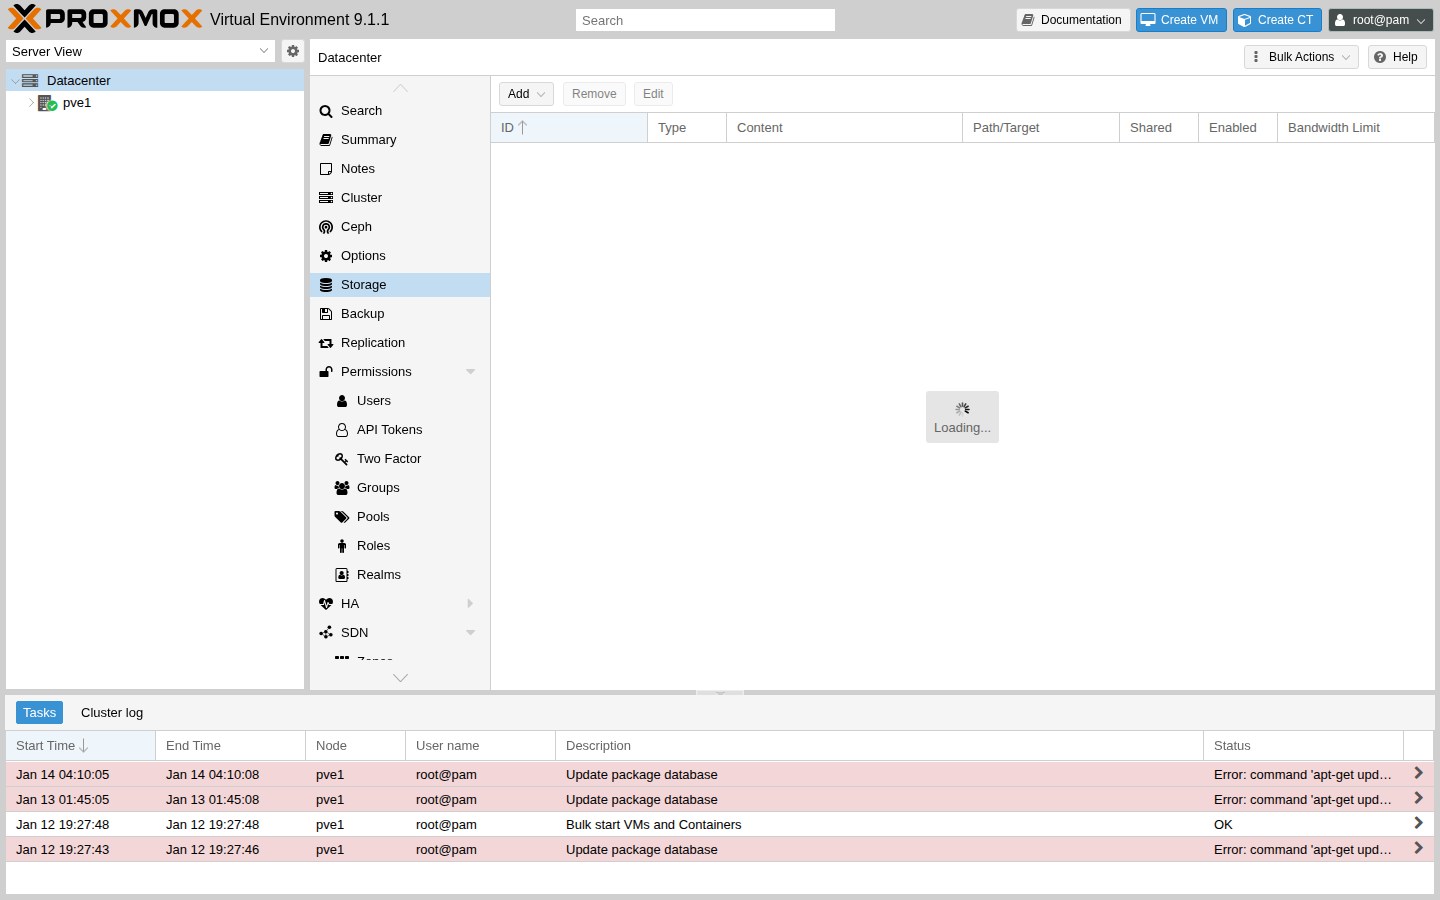
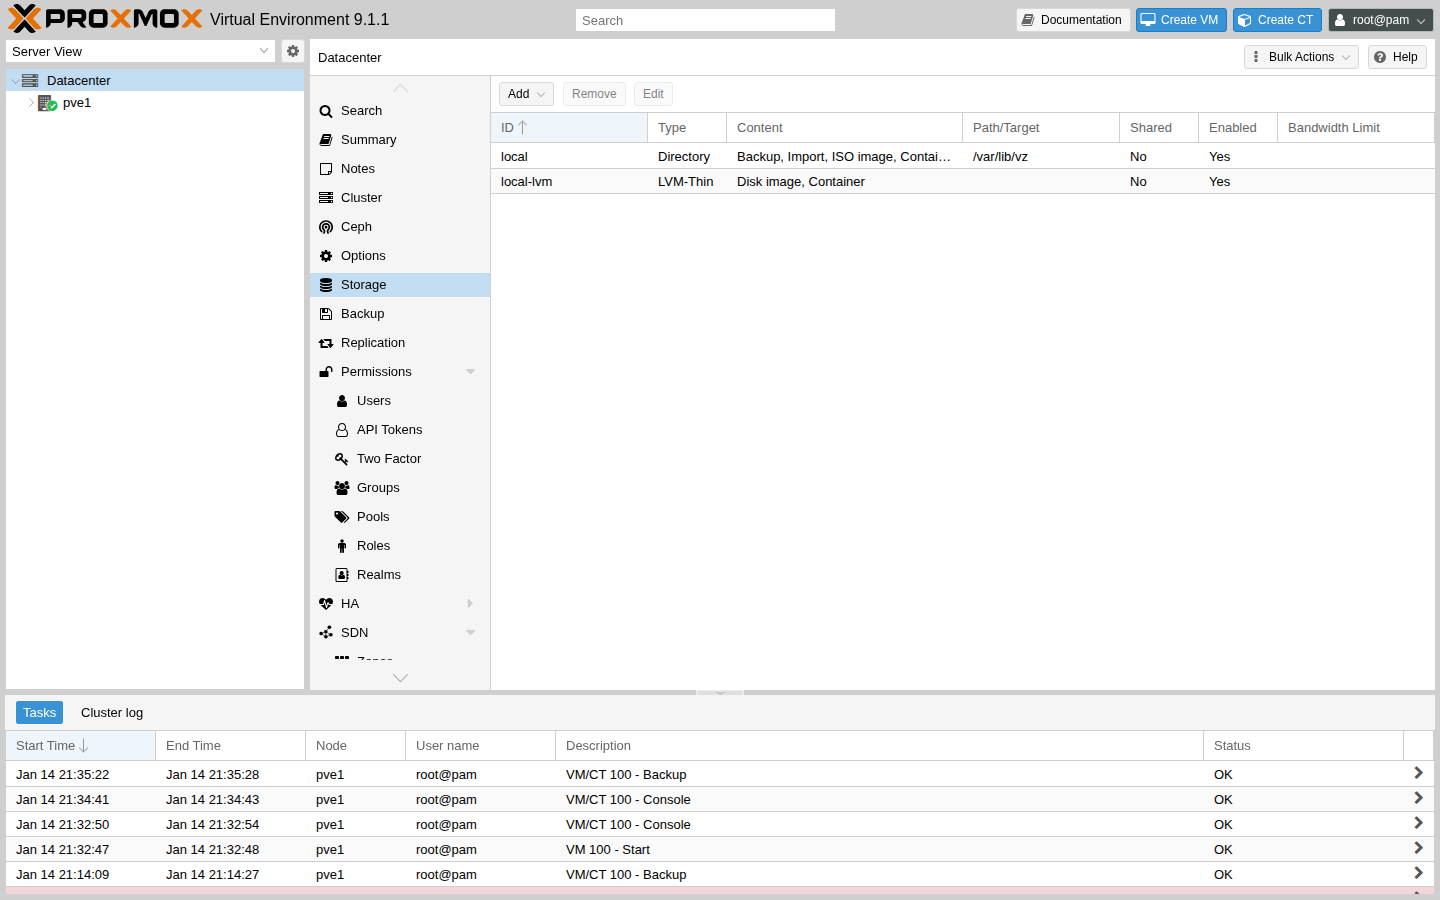
docs(ja): embed additional Web UI screenshots

diff --git a/plans/execplan-ja-part1-ch4-vm-basics.md b/plans/execplan-ja-part1-ch4-vm-basics.md
@@ -8,7 +8,7 @@
 - Title: JA Part I / Chapter 4 – 仮想マシン作成と基本操作
 - Author: AuthorExecAgent (with human reviewer)
 - Date created: 2025-11-16
-- Last updated: 2026-01-11
+- Last updated: 2026-01-14
 - Related issues/PRs: [TBD]
 
 
@@ -76,7 +76,7 @@ Files:
 
 
 - [x] A new reader can follow the chapter and successfully create and operate a VM in a typical lab environment, based on the written steps.
-- [x] Screenshots and text match Proxmox 9.1 UI (Create VM wizard screenshots captured on a live 9.1.1 environment).
+- [x] Screenshots and text match Proxmox 9.1 UI (Create VM wizard + Console + Snapshot dialogs captured on a live 9.1.1 environment).
 - [x] Diagram exists and is no longer a placeholder.
 
 
@@ -90,7 +90,7 @@ Files:
 - [2025-12-21] Updated plan for a beginner-focused revision pass aligned to Proxmox VE 9.1.
 - [2025-12-21] Added beginner framing and example values to `chapter4-vm-basics.md`, added `diagrams/part1/ch4/vm-create-flow.svg`, and kept screenshots as TODO (Issue #2).
 - [2026-01-11] Updated `chapter4-vm-basics.md` to avoid pointing readers to internal Issue numbers; clarified that screenshots are pending and how to proceed without them.
-- [2026-01-14] Captured and embedded Create VM wizard screenshots (General/OS/System/Disks/CPU/Memory/Network) and validated `make check-ja` (PR #70).
+- [2026-01-14] Captured and embedded additional VM operation screenshots (Console / Snapshot) and refreshed wording to remove stale “screenshots later” notes (Issue #2).
 
 
 
@@ -116,10 +116,10 @@ Files:
 
 
 - Status: text-draft
-- Status: assets-partial（Create VM wizard は反映済み。VM 詳細/コンソール/スナップショットは未取得）
+- Status: assets-partial（Create VM wizard / Console / Snapshot は反映済み。追加の画面は未完）
 - Status: build-validated (`build/ja/book.md` に含まれることを確認済み)
 - Initial draft of Chapter 4 exists at `manuscript/ja/part1/chapter4-vm-basics.md`, covering core VM lifecycle operations and basic snapshot/template concepts.
-- The wizard flow diagram is available at `diagrams/part1/ch4/vm-create-flow.svg`, and Create VM wizard screenshots are now embedded in the chapter (Proxmox VE 9.1.1).
+- The wizard flow diagram is available at `diagrams/part1/ch4/vm-create-flow.svg`, and key UI screenshots are now embedded in the chapter (Proxmox VE 9.1.1).
 - For future hands-on chapters, this pattern of “text-complete first, assets later” keeps momentum while clearly recording remaining work in the ExecPlan.
 
 

diff --git a/plans/execplan-ja-part3-ch8-backup.md b/plans/execplan-ja-part3-ch8-backup.md
@@ -8,7 +8,7 @@
 - Title: JA Part III / Chapter 8 – バックアップ・リストアとレプリケーション
 - Author: AuthorExecAgent (with human reviewer)
 - Date created: 2025-11-16
-- Last updated: 2026-01-11
+- Last updated: 2026-01-14
 - Related issues/PRs: [TBD]
 
 
@@ -86,7 +86,7 @@ Files:
 - [2025-12-21] Updated plan for a beginner-focused revision pass aligned to Proxmox VE 9.1.
 - [2025-12-21] Added beginner framing/terminology to `chapter8-backup.md`, added `diagrams/part3/ch8/backup-restore-flow.svg`, and referenced Issue #2 for future screenshots/UI walkthrough.
 - [2026-01-11] Aligned the plan wording with the project convention: screenshot work is tracked in Issues, and reader-facing text should not depend on screenshots.
-- [2026-01-14] Added and embedded Web UI screenshots for Datacenter -> Backup (jobs list + create wizard entry point) (PR #70).
+- [2026-01-14] Added and embedded Web UI screenshots for backup entry points and key dialogs (jobs list / create wizard / task log / restore dialog) (Issue #2).
 
 
 
@@ -111,7 +111,7 @@ Files:
 
 
 - Status: text-draft
-- Status: assets-partial（Datacenter -> Backup の入口スクリーンショットを追加。実行/タスクログ/リストアは未完）
+- Status: assets-partial（Datacenter → Backup の入口スクリーンショットを追加。実行/タスクログ/リストアの一部は反映済み）
 - Status: build-validated (`build/ja/book.md` に含まれることを確認済み)
 - Initial draft of Chapter 8 exists at `manuscript/ja/part3/chapter8-backup.md`, explaining backup/restore and replication concepts tied to the book's lab patterns.
 - A minimal backup→restore→test flow diagram is now available at `diagrams/part3/ch8/backup-restore-flow.svg`; detailed UI walkthroughs and screenshots are still pending and should be aligned to Proxmox VE 9.1 in a later pass.

diff --git a/plans/execplan-ja-part2-ch6-network.md b/plans/execplan-ja-part2-ch6-network.md
@@ -8,7 +8,7 @@
 - Title: JA Part II / Chapter 6 – ネットワーク設計と VLAN
 - Author: AuthorExecAgent (with human reviewer)
 - Date created: 2025-11-16
-- Last updated: 2025-12-21
+- Last updated: 2026-01-14
 - Related issues/PRs: [TBD]
 
 
@@ -87,7 +87,7 @@ Files:
 - [2025-11-16 14:55] Drafted `manuscript/ja/part2/chapter6-network.md` with lab-oriented patterns for single-node and 3-node clusters, and created placeholder topology diagram `diagrams/part2/ch6/network-topology.svg`.
 - [2025-12-21] Updated plan for a beginner-focused revision pass aligned to Proxmox VE 9.1.
 - [2025-12-21] Added beginner framing/checklists to `chapter6-network.md` and replaced the placeholder topology SVG with a minimal real diagram.
-- [2026-01-14] Added and embedded Web UI screenshots for Network list and representative dialogs (vmbr0 edit / Bond / VLAN) (PR #70).
+- [2026-01-14] Added and embedded Web UI screenshots for Network list and representative dialogs (vmbr0 edit / Bond / VLAN) plus a VM NIC VLAN tag example (Issue #2).
 
 
 
@@ -112,7 +112,7 @@ Files:
 
 
 - Status: text-draft
-- Status: assets-partial（代表的な画面（Network 一覧、vmbr0/Bond/VLAN ダイアログ）を追加。詳細 UI 手順は未完）
+- Status: assets-partial（代表的な画面（Network 一覧、vmbr0/Bond/VLAN ダイアログ、VM NIC の VLAN Tag）を追加。詳細 UI 手順は未完）
 - Status: build-validated (`build/ja/book.md` に含まれることを確認済み)
 - Initial draft of Chapter 6 exists at `manuscript/ja/part2/chapter6-network.md`, covering Linux bridges, bonding, VLANs, and lab-oriented topology patterns.
 - The network topology diagram at `diagrams/part2/ch6/network-topology.svg` is now a minimal-but-real diagram; detailed interface names and VLAN tags can be added later without restructuring the text.

diff --git a/plans/execplan-ja-part3-ch7-cluster-ha.md b/plans/execplan-ja-part3-ch7-cluster-ha.md
@@ -8,7 +8,7 @@
 - Title: JA Part III / Chapter 7 – クラスタ構成と HA
 - Author: AuthorExecAgent (with human reviewer)
 - Date created: 2025-11-16
-- Last updated: 2025-12-21
+- Last updated: 2026-01-14
 - Related issues/PRs: [TBD]
 
 
@@ -87,7 +87,7 @@ Files:
 - [2025-11-16 15:05] Drafted `manuscript/ja/part3/chapter7-cluster-ha.md` with goals, core concepts, lab assumptions, cluster creation flow (overview), HA testing ideas, and created placeholder diagram `diagrams/part3/ch7/cluster-ha.svg`.
 - [2025-12-21] Updated plan for a beginner-focused revision pass aligned to Proxmox VE 9.1.
 - [2025-12-21] Added beginner framing/checklists to `chapter7-cluster-ha.md` and replaced the placeholder cluster/HA SVG with a minimal real diagram.
-- [2026-01-14] Added and embedded Web UI screenshots for Datacenter -> Cluster entry points (cluster empty + create wizard) (PR #70).
+- [2026-01-14] Added and embedded Web UI screenshots for Datacenter → Cluster entry points (cluster empty + create wizard + join wizard) (Issue #2).
 
 
 
@@ -112,7 +112,7 @@ Files:
 
 
 - Status: text-draft
-- Status: assets-partial（Datacenter -> Cluster の入口スクリーンショットを追加。参加/HA の詳細は未完）
+- Status: assets-partial（Datacenter → Cluster の入口（Create/Join）を追加。参加/HA の詳細は未完）
 - Status: build-validated (`build/ja/book.md` に含まれることを確認済み)
 - Initial draft of Chapter 7 exists at `manuscript/ja/part3/chapter7-cluster-ha.md`, tying cluster concepts and HA behavior back to the previously defined lab setup.
 - The cluster/HA diagram at `diagrams/part3/ch7/cluster-ha.svg` is now a minimal-but-real diagram; a later pass can enrich it with node names, networks, and storage specifics without changing the narrative.

diff --git a/plans/execplan-ja-pve9.1-alignment.md b/plans/execplan-ja-pve9.1-alignment.md
@@ -8,7 +8,7 @@
 - Title: JA – Proxmox VE 9.1 実機検証・スクリーンショット・本文反映
 - Author: AuthorExecAgent (with human reviewer)
 - Date created: 2025-12-20
-- Last updated: 2026-01-11
+- Last updated: 2026-01-14
 - Related issues/PRs:
   - Issue #2（スクリーンショット取得タスクリスト）
   - Issue #25（Web UI スクリーンショット取得手順）
@@ -177,7 +177,7 @@
 - [2026-01-12] Validated `tools/pve-webui-screenshots/capture.mjs` against a Proxmox VE 9.1.1 lab and hardened it (UI-based login, auto-dismiss “No valid subscription” modal, improved redaction for IP/host/interface identifiers). Captured sanitized Web UI screenshots for ch3/ch5/ch6/ch9 and updated Issue #2 and Issue #25 accordingly (screenshots for ch4/ch7/ch8 remain).
 - [2026-01-14] Extended `tools/pve-webui-screenshots/capture.mjs` to optionally capture Chapter 4 “Create VM wizard” screenshots (`PVE_CAPTURE_CH4=1`) and to support reading the password from a file (`PVE_PASSWORD_FILE`).
 - [2026-01-14] Added `PVE_CAPTURE_EXTENDED=1` to capture additional safe UI pages (Node LVM-Thin, vmbr0 edit dialog, Datacenter Cluster/Backup lists).
-- [2026-01-14] Captured and committed sanitized Web UI screenshots for ch4/ch5/ch6/ch7/ch8, embedded them into the JA manuscript, and confirmed `make check-ja` passes (PR #70). Updated Issue #2 checklist accordingly.
+- [2026-01-14] Extended Web UI screenshot automation and captured sanitized screenshots for ch4/ch6/ch7/ch8 additions (Console/Snapshot, VM NIC VLAN tag, Join Cluster, Backup task log/Restore). Embedded them into the JA manuscript and updated Issue #2 accordingly (PR pending).
 
 
 
